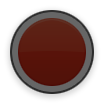
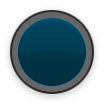
edited Utility class and started implementing functionality for adding friends. changed the AwesomeMenu button to blue color scheme.

diff --git a/MyM/FriendsListViewController.m b/MyM/FriendsListViewController.m
@@ -24,7 +24,8 @@ static NSString * const kSearchBarTableViewControllerDefaultTableViewCellIdentif
 
 @property(nonatomic, strong) UISearchDisplayController *strongSearchDisplayController;
 
-@property (nonatomic) NSDictionary *jsonFriends;
+@property (nonatomic) NSDictionary *jsonGetFriends;
+@property (nonatomic) NSDictionary *jsonAddFriend;
 
 @end
 
@@ -47,8 +48,8 @@ static NSString * const kSearchBarTableViewControllerDefaultTableViewCellIdentif
         NSString *path = [[NSBundle mainBundle] pathForResource:@"Top100FamousPersons" ofType:@"plist"];
         _friends = [[NSMutableArray alloc] initWithContentsOfFile:path];
         
-//        self.jsonFriends = [UtilityClass GetFriendsJSON];
-//        [_friends addObjectsFromArray:[_jsonFriends objectForKey:@"Added"]];
+//        self.jsonGetFriends = [UtilityClass GetFriendsJSON];
+//        [_friends addObjectsFromArray:[_jsonGetFriends objectForKey:@"Added"]];
         
         if (showSectionIndexes) {
             UILocalizedIndexedCollation *collation = [UILocalizedIndexedCollation currentCollation];
@@ -233,6 +234,25 @@ static NSString * const kSearchBarTableViewControllerDefaultTableViewCellIdentif
 - (void)addFriendButton
 {
     NSLog(@"Add a Friend");
+    
+    NSNumber *user = [NSNumber numberWithInt:17];
+    NSNumber *friend = [NSNumber numberWithInt:18];
+    NSString *name = @"Marcellos M";
+    
+    NSDictionary *jsonDictionary = @{ @"friendship_user_id" : user, @"friendship_friend_id" : friend};
+    
+    dispatch_queue_t queue = dispatch_get_global_queue(DISPATCH_QUEUE_PRIORITY_DEFAULT, 0);
+    dispatch_async(queue, ^{
+        self.jsonAddFriend = [UtilityClass SendJSON:jsonDictionary toAddress:@"http://54.225.76.23:3000/friendships/"];
+        dispatch_async(dispatch_get_main_queue(), ^ {
+            if(self.jsonAddFriend)
+            {
+                NSLog(@"Friend added.");
+                [_friends addObject:name];
+            }
+        });
+    });
+    
 }
 
 @end

diff --git a/MyM/UtilityClass.m b/MyM/UtilityClass.m
@@ -10,21 +10,23 @@
 
 @implementation UtilityClass
 
-+ (NSDictionary *)SendJSON:(NSString *)jsonString
++ (NSDictionary *)SendJSON:(NSDictionary *)jsonDictionary toAddress:(NSString *)address
 {
-    NSData *postData = [jsonString dataUsingEncoding:NSUTF8StringEncoding];
+    NSData *postData = [NSJSONSerialization dataWithJSONObject:jsonDictionary options:kNilOptions error:nil];
+    //    NSData *postData = [jsonString dataUsingEncoding:NSUTF8StringEncoding];
     
     NSString *postLength = [NSString stringWithFormat:@"%d", [postData length]];
     
     NSMutableURLRequest *request = [[NSMutableURLRequest alloc] init];
-    [request setURL:[NSURL URLWithString:@"http://54.225.76.23:3000/login/"]];
+    [request setURL:[NSURL URLWithString:address]];
     [request setHTTPMethod:@"POST"];
     [request setValue:postLength forHTTPHeaderField:@"Content-Length"];
-    [request setValue:@"application/x-www-form-urlencoded;charset=UTF-8" forHTTPHeaderField:@"Content-Type"];
+    [request setValue:@"application/json" forHTTPHeaderField:@"Content-Type"];
     [request setHTTPBody:postData];
     
     NSURLResponse *response;
     NSData *POSTReply = [NSURLConnection sendSynchronousRequest:request returningResponse:&response error:nil];
+    NSLog(@"%@",[NSJSONSerialization JSONObjectWithData:POSTReply options:kNilOptions error:nil] );
     NSDictionary *jsonresponse = POSTReply ? [NSJSONSerialization JSONObjectWithData:POSTReply options:kNilOptions error:nil] : nil;
     
     return jsonresponse;
@@ -35,7 +37,7 @@
 {
     //NSData *friendsData = [jsonString dataUsingEncoding:NSUTF8StringEncoding];
     
-    //NSString *friendLength = [NSString stringWithFormat:@"%d", [friendsData length]];
+    //NSString *friendsLength = [NSString stringWithFormat:@"%d", [friendsData length]];
     
     NSMutableURLRequest *request = [[NSMutableURLRequest alloc] init];
     [request setURL:[NSURL URLWithString:@"http://54.225.76.23:3000/friendships/"]];

diff --git a/MyM/UtilityClass.h b/MyM/UtilityClass.h
@@ -10,8 +10,7 @@
 
 @interface UtilityClass : NSObject
 
-+ (NSDictionary *)SendJSON:(NSString *)jsonString;
++ (NSDictionary *)SendJSON:(NSDictionary *)jsonDictionary toAddress:(NSString *)address;
 + (NSDictionary *)GetFriendsJSON;
-
 
 @end
